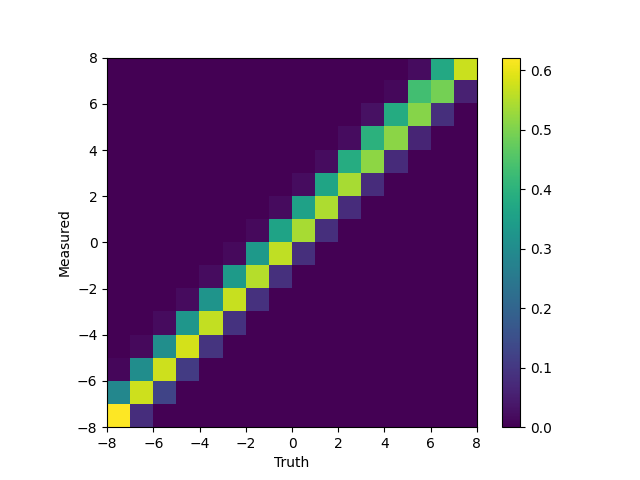
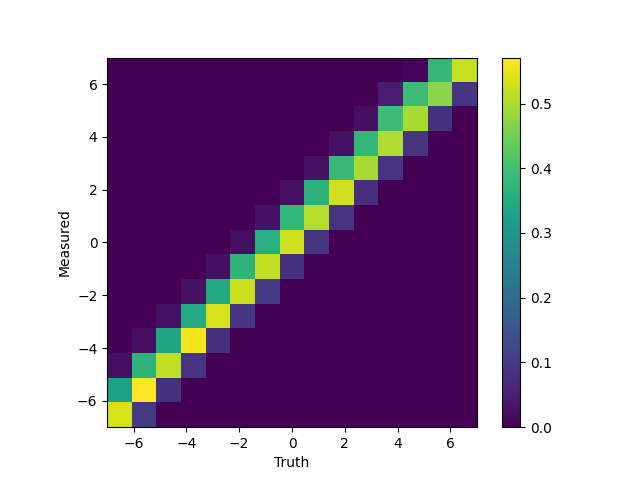
Minor fixes to example and comparison scripts

diff --git a/studies/paper_functions/comparisons.py b/studies/paper_functions/comparisons.py
@@ -1,11 +1,4 @@
-# TODO: errore chi2 STD o STD mean?
-# TODO: calcola chi2 covarianze
-# TODO: triangular discriminator
-# TODO: barre di errore truth ecc?
-
-# Main modules
 import sys, os
-import tqdm
 import ROOT
 from scipy.stats import chisquare
 import numpy as np
@@ -14,7 +7,7 @@ import matplotlib
 from QUnfold import QUnfoldQUBO
 from QUnfold.utility import TH1_to_array, TH2_to_array, normalize_response
 
-# Settings
+# RooUnfold settings
 loaded_RooUnfold = ROOT.gSystem.Load("HEP_deps/RooUnfold/libRooUnfold.so")
 if not loaded_RooUnfold == 0:
     print("RooUnfold not found!")
@@ -60,7 +53,7 @@ def make_plots(SA_info, IBU_info, SVD_info, truth, measured, binning, var, ntoys
     ax1.errorbar(
         x=bin_midpoints,
         y=SA_info["mean"],
-        yerr=SA_info["STD"],
+        yerr=SA_info["std"],
         label=label,
         marker="o",
         ms=marker_size,
@@ -71,7 +64,7 @@ def make_plots(SA_info, IBU_info, SVD_info, truth, measured, binning, var, ntoys
     ax2.errorbar(
         x=bin_midpoints,
         y=SA_info["mean"] / truth,
-        yerr=SA_info["STD"] / truth,
+        yerr=SA_info["std"] / truth,
         ms=marker_size,
         fmt="o",
         color="green",
@@ -83,7 +76,7 @@ def make_plots(SA_info, IBU_info, SVD_info, truth, measured, binning, var, ntoys
     ax1.errorbar(
         x=bin_midpoints,
         y=IBU_info["mean"],
-        yerr=IBU_info["STD"],
+        yerr=IBU_info["std"],
         label=label,
         marker="s",
         ms=marker_size,
@@ -94,7 +87,7 @@ def make_plots(SA_info, IBU_info, SVD_info, truth, measured, binning, var, ntoys
     ax2.errorbar(
         x=bin_midpoints,
         y=IBU_info["mean"] / truth,
-        yerr=IBU_info["STD"] / truth,
+        yerr=IBU_info["std"] / truth,
         ms=marker_size,
         fmt="s",
         color="red",
@@ -106,7 +99,7 @@ def make_plots(SA_info, IBU_info, SVD_info, truth, measured, binning, var, ntoys
     ax1.errorbar(
         x=bin_midpoints,
         y=SVD_info["mean"],
-        yerr=SVD_info["STD"],
+        yerr=SVD_info["std"],
         label=label,
         marker="p",
         ms=marker_size,
@@ -117,7 +110,7 @@ def make_plots(SA_info, IBU_info, SVD_info, truth, measured, binning, var, ntoys
     ax2.errorbar(
         x=bin_midpoints,
         y=SVD_info["mean"] / truth,
-        yerr=SVD_info["STD"] / truth,
+        yerr=SVD_info["std"] / truth,
         ms=marker_size,
         fmt="p",
         color="purple",
@@ -242,7 +235,7 @@ def make_comparisons(reco, particle):
         lam = 0.0
         num_reads = 100
         unfolder = QUnfoldQUBO(measured=measured, response=response, lam=lam)
-        unfolder.initialize_qubo_model(optimize_vars_range=False)
+        unfolder.initialize_qubo_model()
         unfolded_SA, error_SA = unfolder.solve_simulated_annealing(num_reads=num_reads)
         chi2_SA = compute_chi2(unfolded_SA, truth)
 
@@ -280,21 +273,21 @@ def make_comparisons(reco, particle):
         # SA results
         SA_info = {
             "mean": unfolded_SA,
-            "STD": error_SA,
+            "std": error_SA,
             "chi2": np.round(chi2_SA, 3),
         }
 
         # IBU results
         IBU_info = {
             "mean": unfolded_IBU,
-            "STD": error_IBU,
+            "std": error_IBU,
             "chi2": np.round(chi2_IBU, 3),
         }
 
         # SVD results
         SVD_info = {
             "mean": unfolded_SVD,
-            "STD": error_SVD,
+            "std": error_SVD,
             "chi2": np.round(chi2_SVD, 3),
         }
 

diff --git a/examples/simneal_script.py b/examples/simneal_script.py
@@ -2,12 +2,13 @@ import numpy as np
 from QUnfold import QUnfoldQUBO, QUnfoldPlotter
 from QUnfold.utility import normalize_response
 
+
 if __name__ == "__main__":
     # Set parameters for data generation
-    num_entries = 40000
-    num_bins = 16
-    min_bin = -8.0
-    max_bin = 8.0
+    num_entries = 20000
+    num_bins = 15
+    min_bin = -7.0
+    max_bin = 7.0
     bins = np.linspace(min_bin, max_bin, num_bins + 1)
 
     seed = 42
@@ -35,19 +36,19 @@ if __name__ == "__main__":
     )
 
     # Generate truth and measured histograms
-    true, _ = np.histogram(true_data, bins=bins)
+    truth, _ = np.histogram(true_data, bins=bins)
     measured, _ = np.histogram(meas_data, bins=bins)
 
     # Run simulated annealing to solve QUBO problem
     unfolder = QUnfoldQUBO(response, measured, lam=0.1)
-    unfolder.initialize_qubo_model(optimize_vars_range=False)
-    unfolded, error = unfolder.solve_simulated_annealing(num_reads=10, seed=seed)
+    unfolder.initialize_qubo_model()
+    unfolded, error = unfolder.solve_simulated_annealing(num_reads=100, seed=seed)
 
     # Plot unfolding result
     plotter = QUnfoldPlotter(
         response=response,
         measured=measured,
-        truth=true,
+        truth=truth,
         unfolded=unfolded,
         error=error,
         binning=bins,
